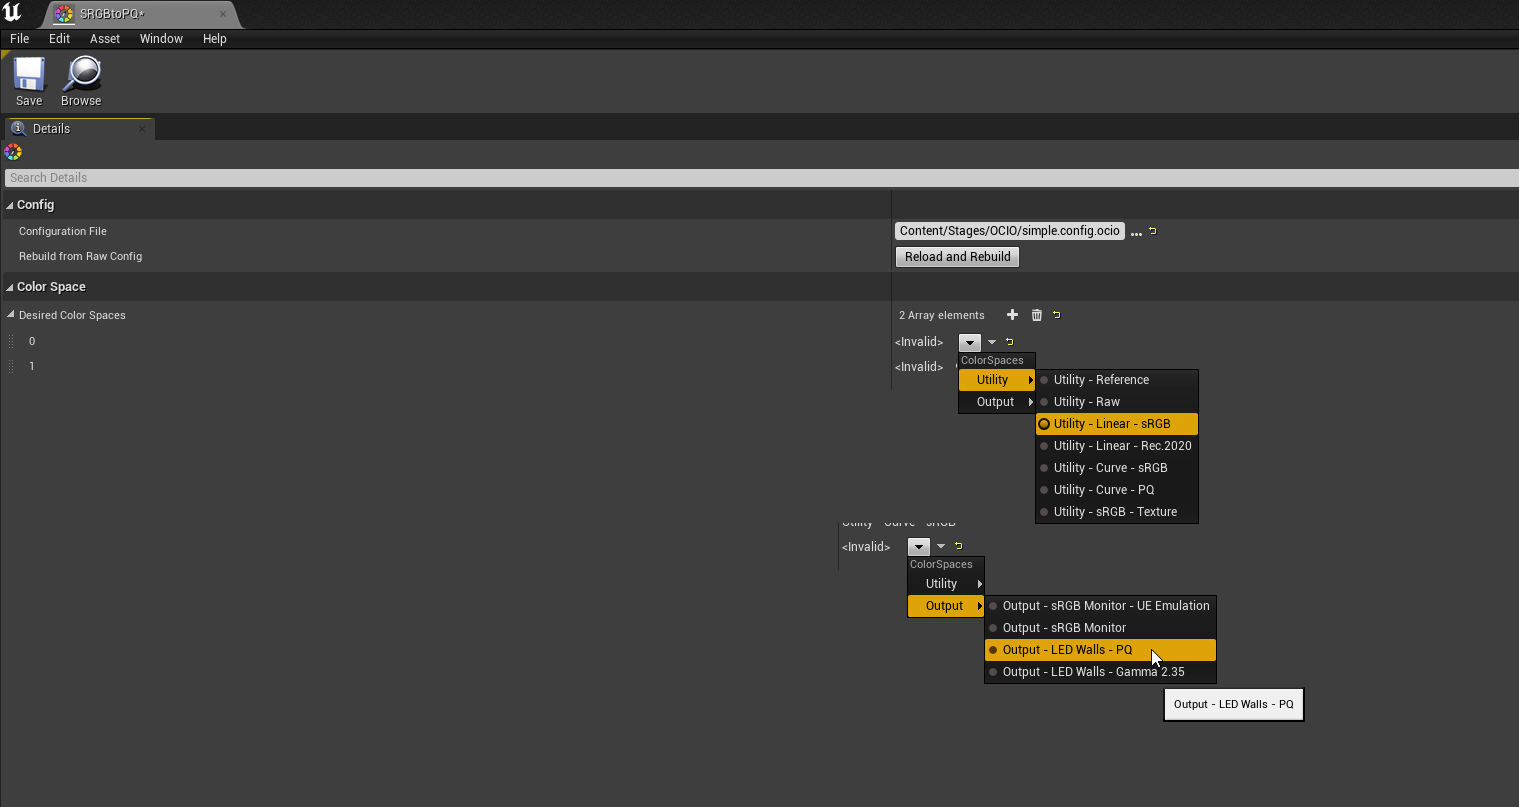
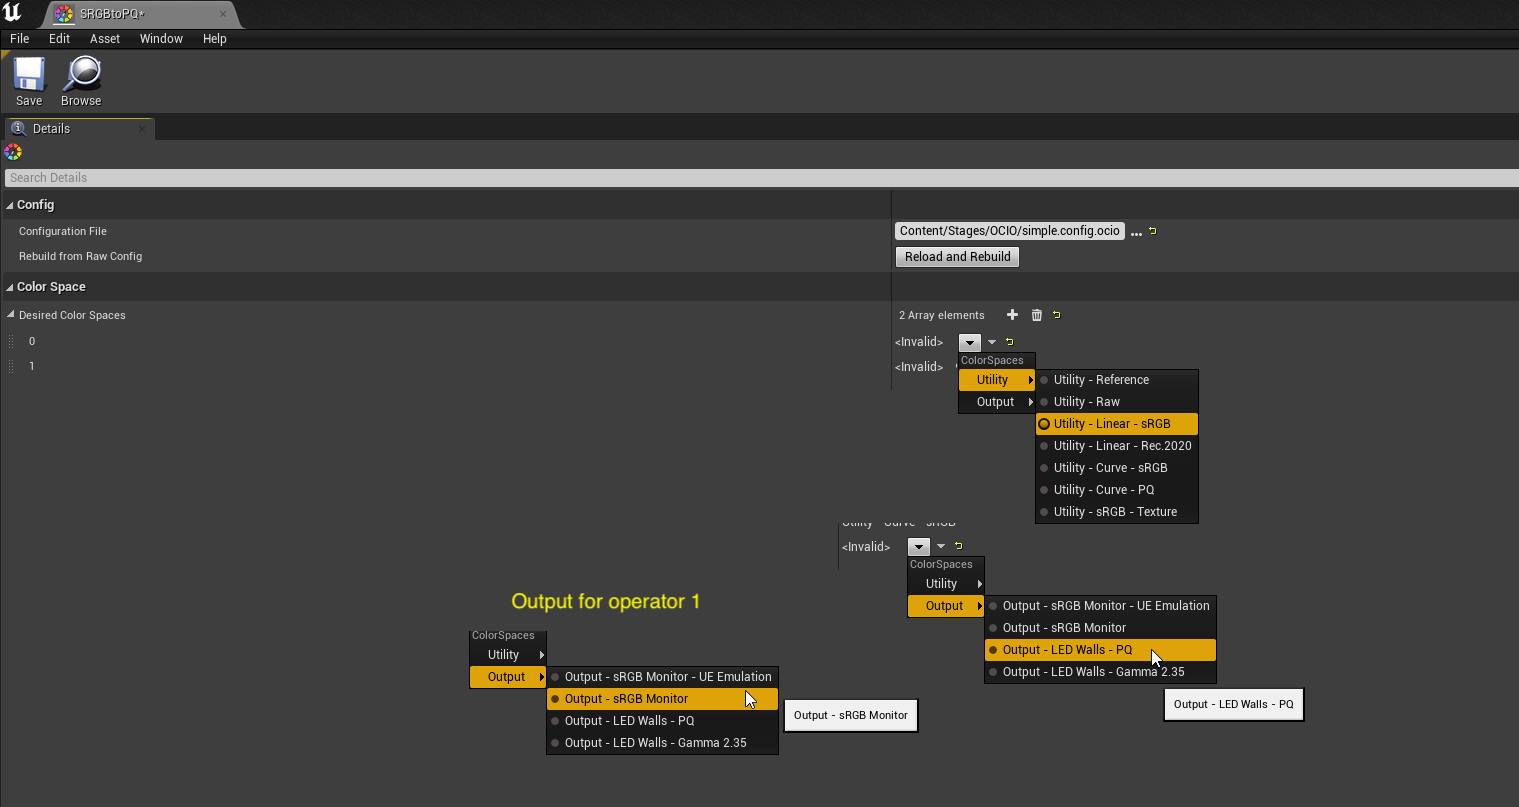
porting walk through

Changed region(s): [[0.3094, 0.7125, 0.6188, 0.9603]]

diff --git a/hdr-output/README.md b/hdr-output/README.md
@@ -64,7 +64,7 @@ Open up the **SRGBtoPQ** file and load the `simple.config.ocio` into the **Confi
 
 ##### `Step 7.`\|`BTS`| :small_orange_diamond: :small_blue_diamond: :small_blue_diamond:
 
-Next to **Desired Color Space** press the **+** button next to **Desired Color Space** twice.  In the slot `0` add **Utility | Utility - Linear -sRGB**.  On `1` select **Output | LED Walls - PQ**
+Next to **Desired Color Space** press the **+** button next to **Desired Color Space** twice.  In the slot `0` add **Utility | Utility - Linear -sRGB**.  On `1` select **Output | LED Walls - PQ**.  We also need a third output for anyone who is working in Unreal Editor (like operator 1) to get the output color into a sRGB computer monitor color.
 
 ![add an sRGB to PQ converter](images/conversion.png)
 
